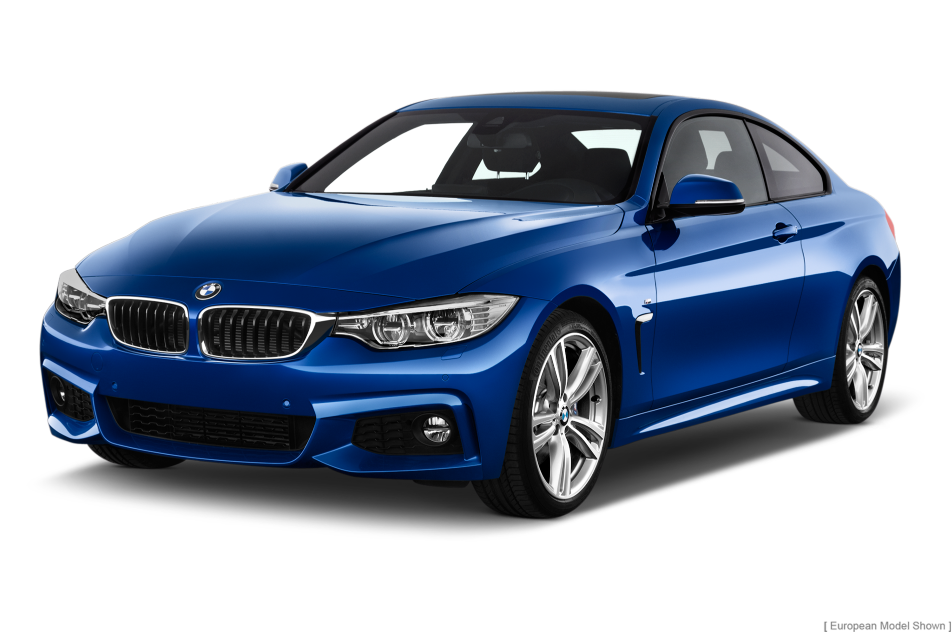
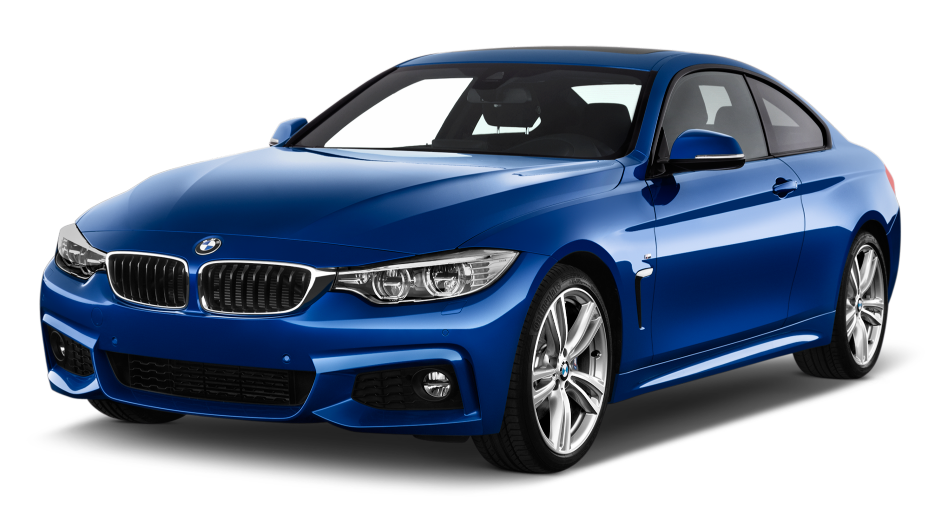
Hero Section Complete

diff --git a/index.html b/index.html
@@ -13,7 +13,8 @@
 
 <body>
     <header>
-        <section class="Header">
+
+        <section class="header_Section">
             <div class="container">
                 <div class="header_wrapper">
                     <nav>
@@ -28,26 +29,64 @@
                             <li><a href="">ABOUT US</a></li>
                             <li><a href="">CONTACT</a></li>
                         </ul>
-                        <div class="menu_icon">
+                        <div class="menu_icon" id="menuIcon">
                             <i class="fa-solid fa-bars" onclick="toggleMenu()"></i>
                         </div>
                     </nav>
                 </div>
             </div>
         </section>
-    </header>
 
+    </header>
     <main>
+
         <section class="hero_section">
             <div class="container">
                 <div class="hero_wrapper">
-                    <div class="content">
-                        <h1>AUTOMATED NEGOTIATIONS </br>POWERED BY ROBONEGOTIATOR</h1>
-                        <p>List your cars in our marketplace, we find the buyers and secure an optimal price</p>
-                        <a href=""><span>GET</span> STARTED</a>
+                    <div class="main_heroDiv">
+                        <div class="contentDiv">
+                            <h1>AUTOMATED NEGOTIATIONS </br><span>POWERED BY</span> ROBONEGOTIATOR</h1>
+                            <p>List your cars in our marketplace, we find </br> the buyers and secure an optimal price
+                            </p>
+                            <a href="#" class="btn">GET STARTED</a>
+                        </div>
+                        <div class="car_section">
+                            <img src="./assets/images/bmw-22440.png" alt="">
+                        </div>
                     </div>
-                    <div class="car_sec">
-                        <!-- <img src="./assets/images/bmw-22440.png" alt=""> -->
+                </div>
+            </div>
+        </section>
+
+        <section class="provide_section">
+            <div class="container">
+                <div class="provide_wrapper">
+                    <div class="heading">
+                        <h1>WHAT WE PROVIDE</h1>
+                    </div>
+                    <div class="provide_circle">
+
+                        <div class="circle">
+                            <img src="./assets/images/Ellipse 21.svg" alt="">
+                            <div class="inner">
+                                <img src="./assets/images/Group 53.svg" alt="">
+                                <p>FIND RIGHT CAR</p>
+                            </div>
+                        </div>
+                        <div class="circle">
+                            <img src="./assets/images/Ellipse 21.svg" alt="">
+                            <div class="inner">
+                                <img class="big" src="./assets/images/noun_Secured_3008506.svg" alt="">
+                                <p>SAFE AND SECURE</p>
+                            </div>
+                        </div>
+                        <div class="circle">
+                            <img src="./assets/images/Ellipse 21.svg" alt="">
+                            <div class="inner">
+                                <img src="./assets/images/Group 54.svg" alt="">
+                                <p>SALE YOUR CAR</p>
+                            </div>
+                        </div>
                     </div>
                 </div>
             </div>

diff --git a/assets/css/style.css b/assets/css/style.css
@@ -34,7 +34,7 @@
     box-sizing: border-box;
 }
 
-/* -----Colors:------- */
+/* -------Colors:------- */
 
 :root {
     --heroText-colour: #0E88D2;
@@ -48,15 +48,22 @@
     --unnamed-color: #ABABAB;
 }
 
+.header_Section {
+    background-color: var(--white-color);
+    position: relative;
+}
+
 .container {
     max-width: 1920px;
     margin: 0 auto;
+
 }
 
-.header_wrapper {
-    position: relative;
+.header_wrapper,
+.hero_wrapper,
+.provide_wrapper {
     padding: 0 80px;
-    background-color: var(--white-color);
+
 }
 
 nav {
@@ -71,33 +78,133 @@ nav ul {
     gap: 50px;
     align-items: center;
     list-style: none;
+    transition: all 0.5s;
 
 }
 
 nav ul li a {
     font-family: OpenSans;
-    font-size: 11px;
+    font-size: 12px;
     text-decoration: none;
     color: var(--black-color);
 }
 
 .menu_icon {
     display: none;
+    cursor: pointer;
 }
 
-.menu-icon i {
+.menu_icon i {
     color: var(--black-color);
     font-size: 20px;
+    transition: transform 0.3s ease;
 
 }
 
-
+/*--------HERO_SECTION-------- */
 
 .hero_section {
     background-image: url(../images/Background_V2.png);
     width: 100%;
-    height: 100vh;
     background-size: cover;
     background-repeat: no-repeat;
-    background-position: center;
+    background-position: center bottom;
+}
+
+.main_heroDiv {
+    display: flex;
+    justify-content: space-between;
+    align-items: start;
+    padding: 140px 0 46px;
+}
+
+.contentDiv {
+    width: 50%;
+    color: var(--white-color);
+    display: flex;
+    flex-direction: column;
+    gap: 10px;
+
+}
+
+.contentDiv h1 {
+    color: var(--white-color);
+    font-size: 26px;
+    font-family: TitilliumWeb;
+    line-height: 40px;
+}
+
+.contentDiv h1 span {
+    color: var(--heroText-colour);
+}
+
+.contentDiv p {
+    font-family: Poppins;
+    font-size: 10px;
+    letter-spacing: 1.7px;
+    line-height: 24px;
+}
+
+.contentDiv a {
+    color: var(--white-color);
+    font-family: Poppins;
+    font-size: 10px;
+    letter-spacing: 0.5px;
+    text-decoration: none;
+}
+
+.car_section {
+    width: 50%;
+}
+
+.car_section img {
+    width: 100%;
+}
+
+/* ---------PROVIDE-SECTION-------- */
+
+.provide_section {
+    background-color: var(--bg-color);
+    padding: 40px 0;
+}
+
+.heading {
+    color: var(--white-color);
+    text-align: center;
+    margin-bottom: 60px;
+    font-family: TitilliumWeb;
+    font-size: 12px;
+}
+
+.provide_circle {
+    display: flex;
+    justify-content: center;
+    gap: 40px;
+    align-items: center;
+
+}
+
+.circle img {
+    width: 140px;
+
+}
+
+.inner {
+    position: relative;
+    top: -100px;
+    left: 0px;
+    text-align: center;
+}
+
+.inner img {
+    width: 60px;
+}
+
+.inner p {
+    color: var(--white-color);
+    font-size: 10px;
+}
+
+.inner .big {
+    width: 30px;
 }

diff --git a/assets/js/app.js b/assets/js/app.js
@@ -1,10 +1,28 @@
-let menuList = document.getElementById("menuList")
-menuList.style.maxHeight = "0px"
+// let menuList = document.getElementById("menuList")
+// menuList.style.maxHeight = "0px"
+
+// function toggleMenu() {
+//     if (menuList.style.maxHeight == "0px") {
+//         menuList.style.maxHeight = "300px"
+//     } else {
+//         menuList.style.maxHeight = "0px"
+//     }
+// }
+
+let menuList = document.getElementById("menuList");
+let menuIcon = document.getElementById("menuIcon");
+let icon = menuIcon.querySelector("i");
+
+menuList.style.maxHeight = "0px";
 
 function toggleMenu() {
-    if (menuList.style.maxHeight == "0px") {
-        menuList.style.maxHeight = "300px"
-    } else {
-        menuList.style.maxHeight = "0px"
-    }
+  if (menuList.style.maxHeight == "0px") {
+    menuList.style.maxHeight = "300px";
+    icon.classList.remove("fa-bars");
+    icon.classList.add("fa-xmark");
+  } else {
+    menuList.style.maxHeight = "0px";
+    icon.classList.remove("fa-xmark");
+    icon.classList.add("fa-bars");
+  }
 }

diff --git a/assets/css/responsive.css b/assets/css/responsive.css
@@ -9,18 +9,15 @@
         flex-direction: column;
         background-color: #fff;
         overflow: hidden;
+        box-shadow: 0 4px 10px rgba(0, 0, 0, 0.1);
     }
 
     nav ul li {
-        padding: 20px;
+        padding: 14px 0;
 
     }
 
     .menu_icon {
         display: block;
-    }
-
-    #menuList {
-        transition: all 0.5s;
     }
 }
